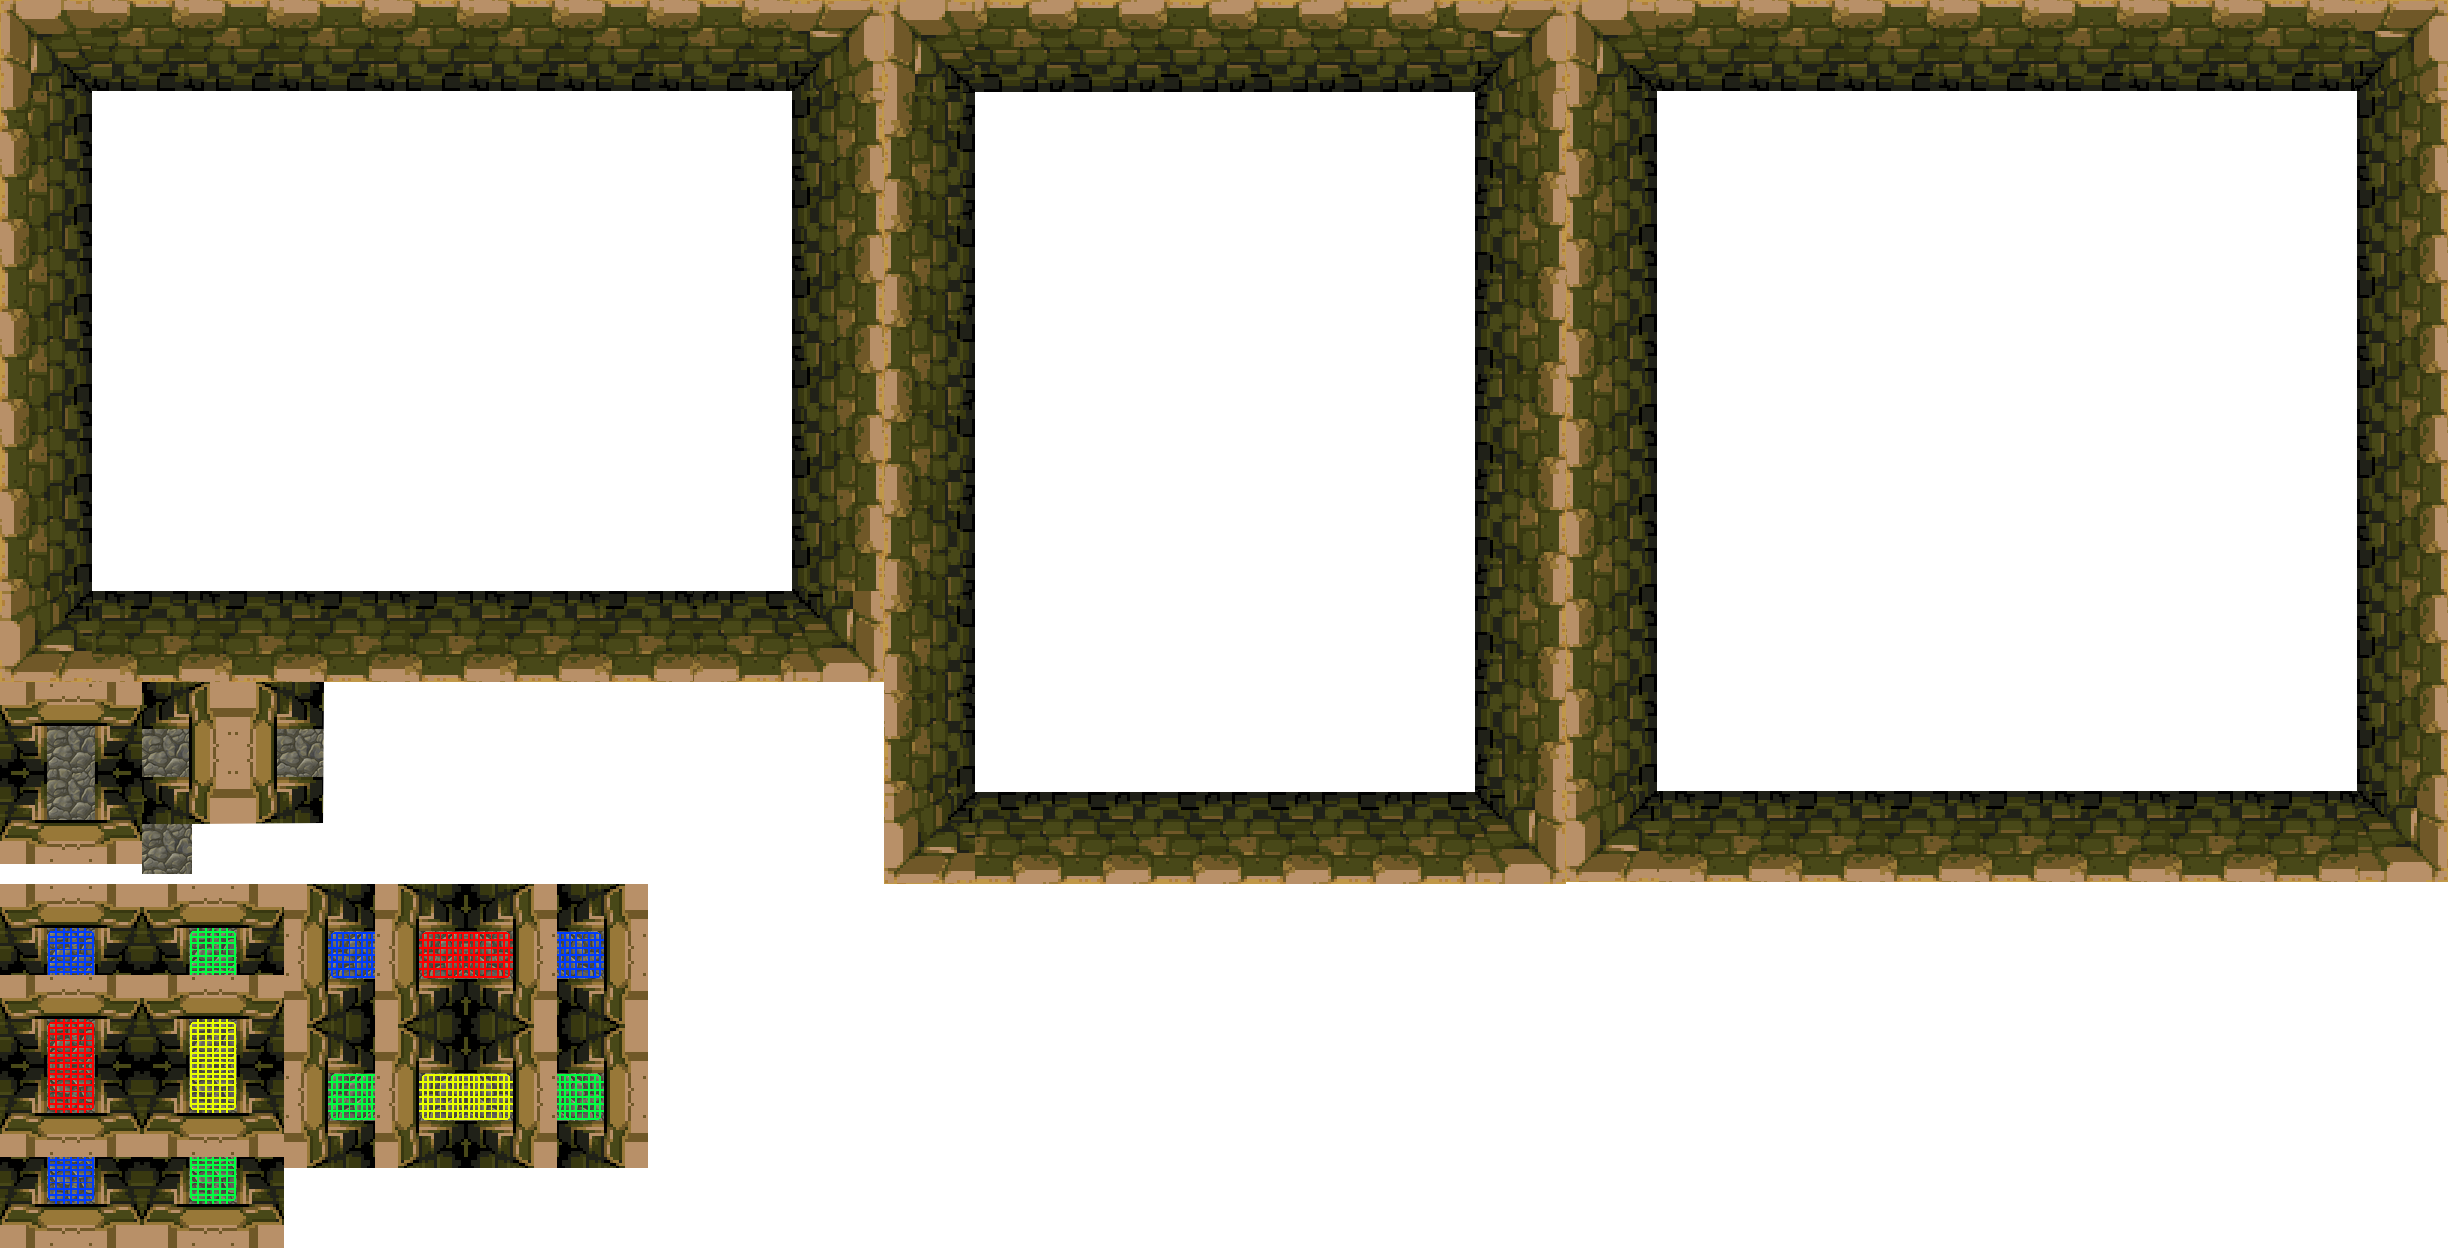
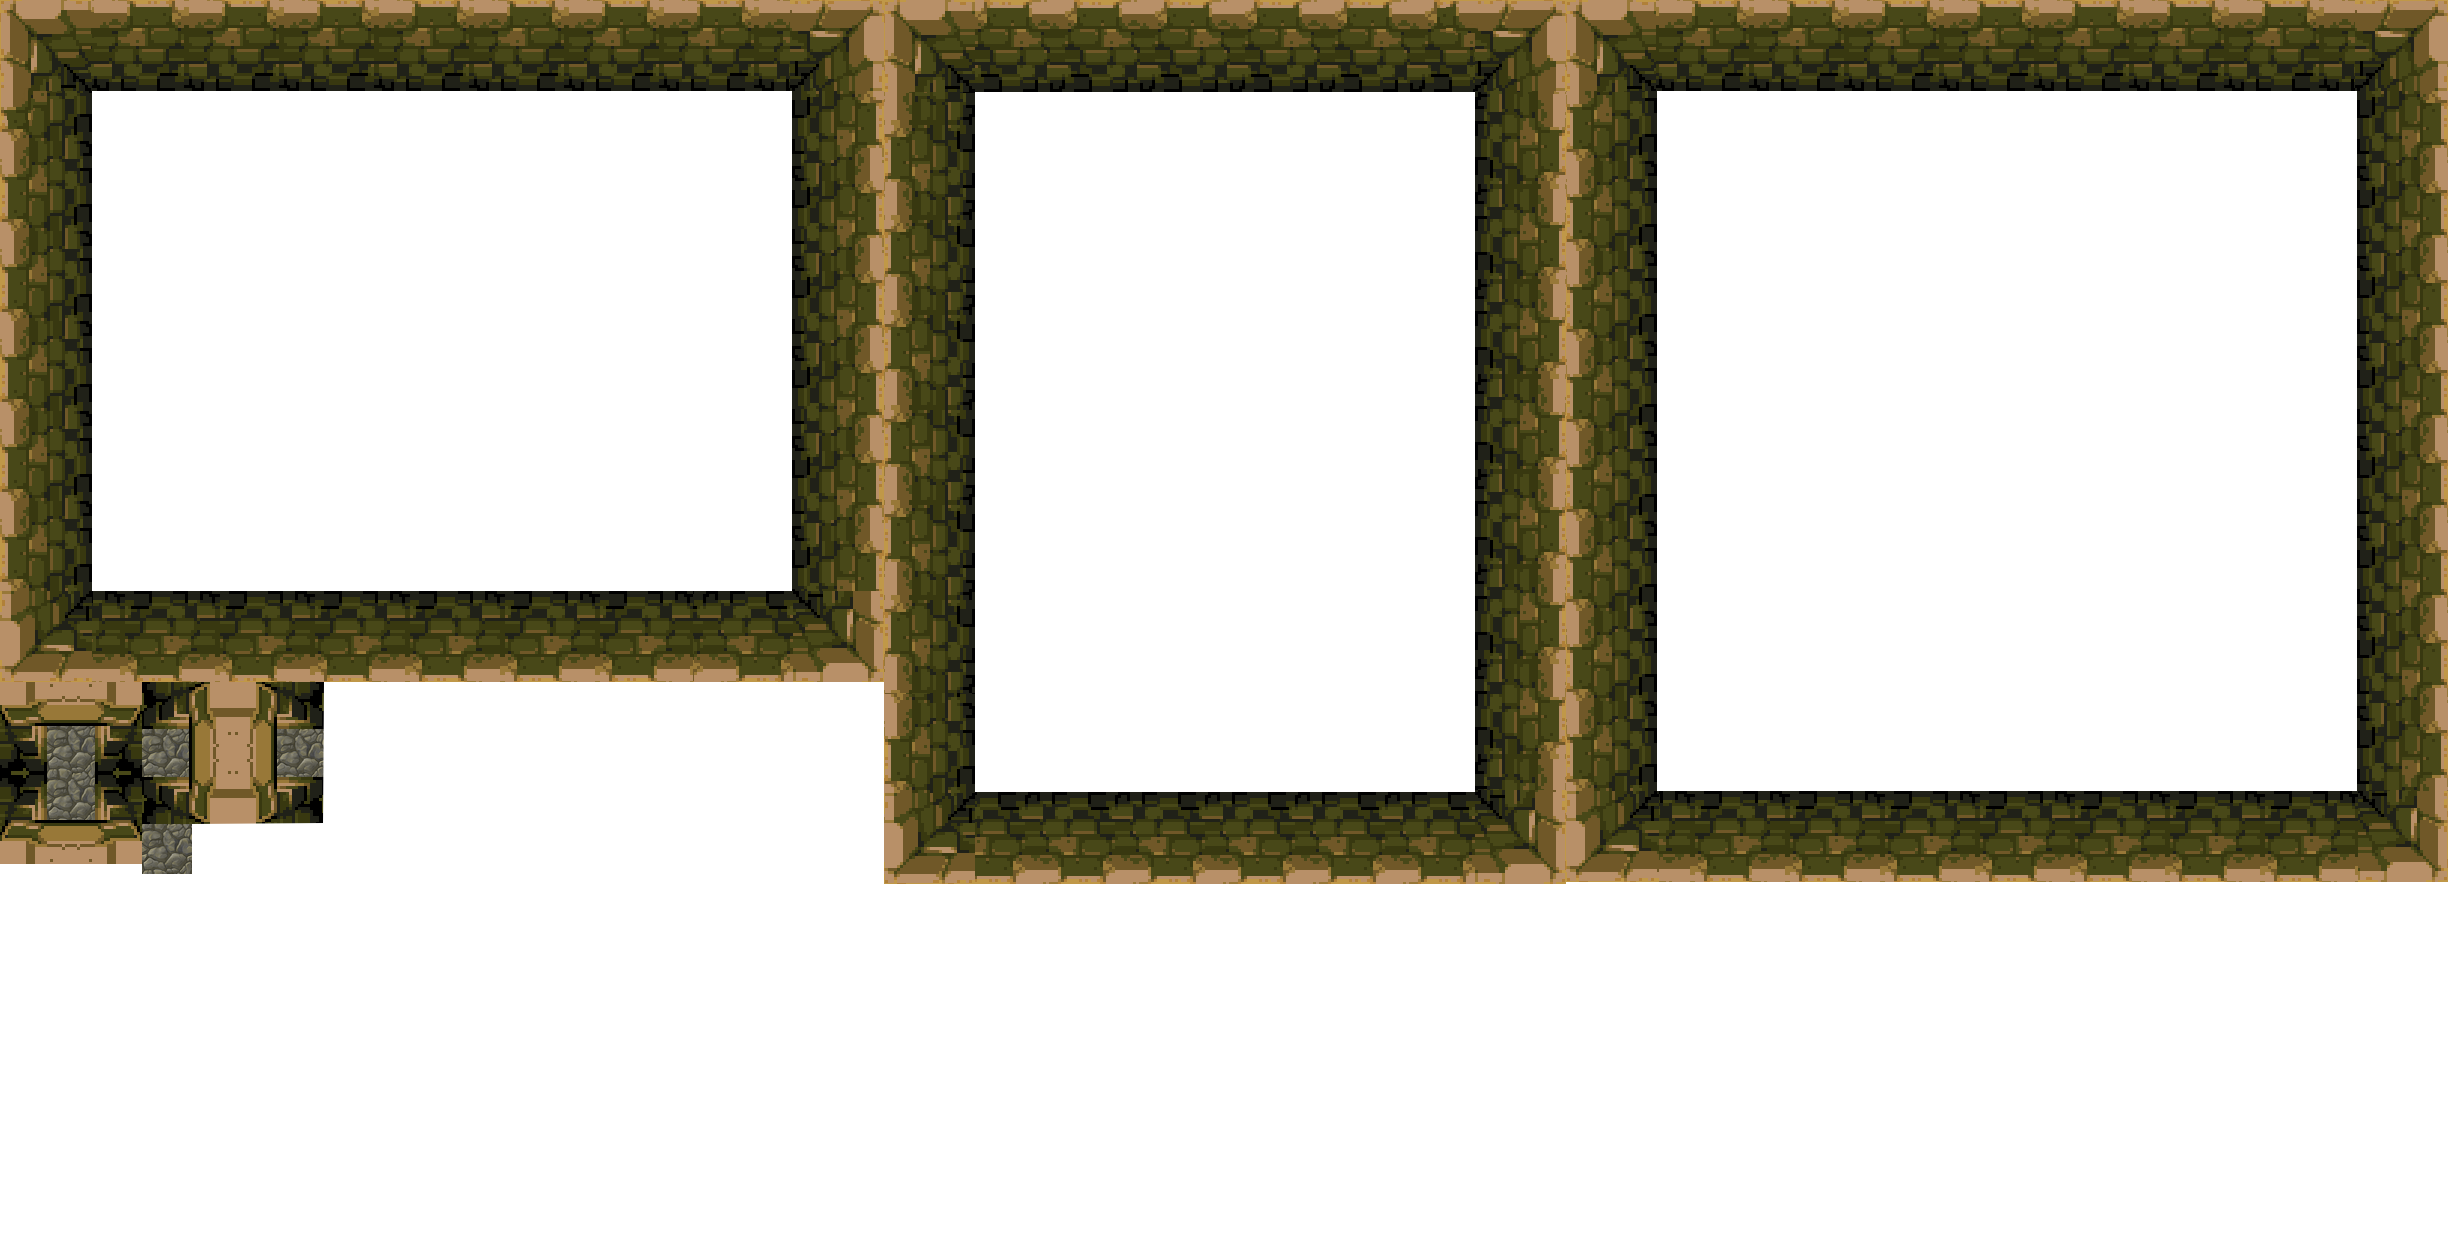
blablabla

Changed region(s): [[0.0, 0.6875, 0.2794, 1.0]]

diff --git a/public_html/files/javascript/canvas.draw.js b/public_html/files/javascript/canvas.draw.js
@@ -22,32 +22,44 @@ function drawMap(map) {
         Game.context.beginPath();
         var x = 0;
         var y = 0;
+        switch (entry.color) {
+            case RED:
+                Game.context.fillStyle = "red";
+                break;
+            case BLUE:
+                Game.context.fillStyle = "blue";
+                break;
+            case GREEN:
+                Game.context.fillStyle = "green";
+                break;
+            case YELLOW:
+                Game.context.fillStyle = "yellow";
+                break;
+        }
         switch (entry.place) {
             case TOP:
                 y = roomY;
                 x = roomX + (map[player.room].width / 2) - (entry.width / 2);
-              Game.context.drawImage(Images['border_door_ground'], 0, 682, 142, 91, x - 42, y - 91, 142, 91); 
-                // Game.context.drawImage(Images['border_door_ground'], 0, 975, 142, 91, x - 42, y - 91, 142, 91);
-                //Game.context.rect(x, y, entry.width, entry.height);
-
+//              Game.context.drawImage(Images['border_door_ground'], 0, 682, 142, 91, x - 42, y - 91, 142, 91);
+                if (entry.lock) {
+                    if (entry)
+                        Game.context.drawImage(Images['border_door_ground'], 0, 975, 142, 91, x - 42, y - 91, 142, 91);
+                }
                 break;
             case LEFT:
                 y = roomY + (map[player.room].height / 2) - (entry.height / 2);
                 x = roomX;
                 Game.context.drawImage(Images['border_door_ground'], 233, 682, 91, 142, x - 91, y - 36, 91, 142);
-                //Game.context.rect(x, y, entry.width, entry.height);                
                 break;
             case BOTTOM:
                 y = roomY + map[player.room].height - entry.height;
                 x = roomX + (map[player.room].width / 2) - (entry.width / 2);
                 Game.context.drawImage(Images['border_door_ground'], 0, 773, 142, 91, x - 42, y + 10, 142, 91);
-                //Game.context.rect(x, y, entry.width, entry.height);
                 break;
             case RIGHT:
                 y = roomY + (map[player.room].height / 2) - (entry.height / 2);
                 x = roomX + (map[player.room].width) - entry.width;
                 Game.context.drawImage(Images['border_door_ground'], 142, 682, 91, 142, x + 10, y - 36, 91, 142);
-                //Game.context.rect(x, y, entry.width, entry.height);
                 break;
         }
         entry.x = x;
